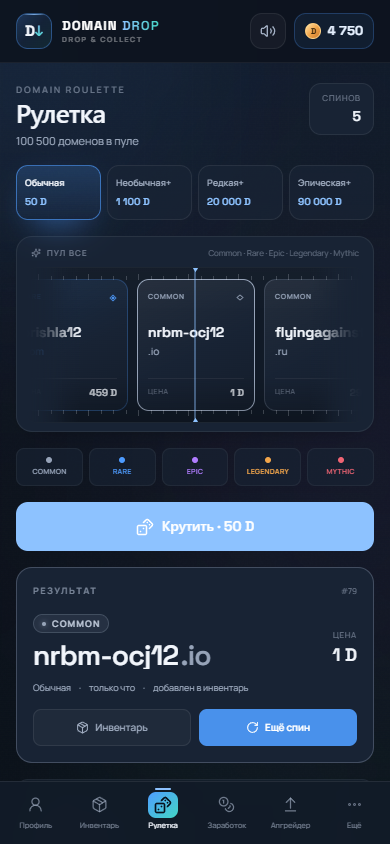
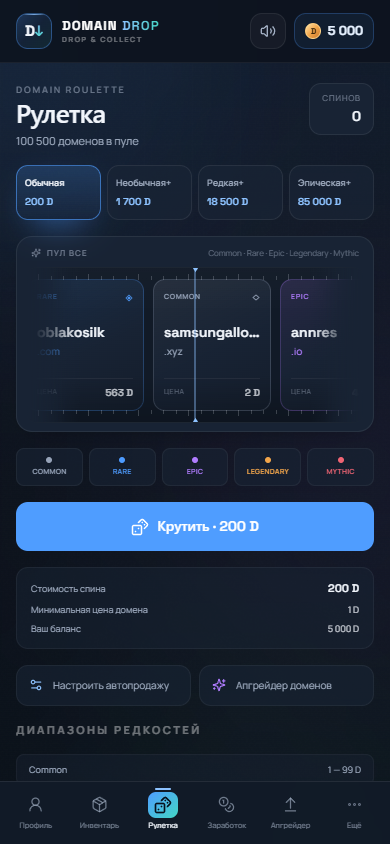
Raise rare drop rates and rebalance spin prices

diff --git a/backend/tests/test_api.py b/backend/tests/test_api.py
@@ -10,7 +10,7 @@ from sqlalchemy.ext.asyncio import AsyncSession, async_sessionmaker, create_asyn
 from sqlalchemy.pool import StaticPool
 
 from app.database import get_db
-from app.economy import weight_for_price
+from app.economy import weight_for
 from app.models import Base, Domain
 from app.routers import (
     auth,
@@ -30,7 +30,7 @@ TEST_DOMAINS = [
         zone=".com",
         price=1_100_000,
         rarity="mythic",
-        weight=weight_for_price(1_100_000),
+        weight=weight_for(1_100_000, "mythic"),
         is_available=True,
     ),
     Domain(
@@ -38,7 +38,7 @@ TEST_DOMAINS = [
         zone=".com",
         price=50_000,
         rarity="legendary",
-        weight=weight_for_price(50_000),
+        weight=weight_for(50_000, "legendary"),
         is_available=True,
     ),
     Domain(
@@ -46,7 +46,7 @@ TEST_DOMAINS = [
         zone=".ru",
         price=5_000,
         rarity="epic",
-        weight=weight_for_price(5_000),
+        weight=weight_for(5_000, "epic"),
         is_available=True,
     ),
     Domain(
@@ -54,7 +54,7 @@ TEST_DOMAINS = [
         zone=".io",
         price=200,
         rarity="rare",
-        weight=weight_for_price(200),
+        weight=weight_for(200, "rare"),
         is_available=True,
     ),
     Domain(
@@ -62,7 +62,7 @@ TEST_DOMAINS = [
         zone=".xyz",
         price=10,
         rarity="common",
-        weight=weight_for_price(10),
+        weight=weight_for(10, "common"),
         is_available=True,
     ),
 ]
@@ -154,7 +154,7 @@ async def test_full_game_flow(test_context, monkeypatch):
     assert meta.status_code == 200
     meta_data = meta.json()
     assert meta_data["total_domains"] == 5
-    assert [item["cost"] for item in meta_data["roll_types"]] == [50, 1_100, 20_000, 90_000]
+    assert [item["cost"] for item in meta_data["roll_types"]] == [200, 1_700, 18_500, 85_000]
     assert [item["key"] for item in meta_data["roll_types"]] == [
         "normal",
         "uncommon_plus",
@@ -174,7 +174,7 @@ async def test_full_game_flow(test_context, monkeypatch):
     first = await client.post("/api/spin", headers=headers, json={"roll_type": "normal"})
     assert first.status_code == 200, first.text
     first_data = first.json()
-    assert first_data["balance"] == 4950
+    assert first_data["balance"] == 4800
     assert first_data["auto_sold"] is False
     assert "server_seed" not in first_data
     limited = await client.post("/api/spin", headers=headers, json={"roll_type": "normal"})
@@ -200,7 +200,7 @@ async def test_full_game_flow(test_context, monkeypatch):
     auto_data = auto_spin.json()
     assert auto_data["auto_sold"] is True
     assert auto_data["auto_sold_price"] == auto_data["price"]
-    assert auto_data["balance"] == 4950 - 50 + auto_data["auto_sold_price"]
+    assert auto_data["balance"] == 4800 - 200 + auto_data["auto_sold_price"]
 
     # Turn autosell off and collect three domains.
     response = await client.put(

diff --git a/backend/app/economy.py b/backend/app/economy.py
@@ -68,38 +68,48 @@ SPIN_TYPES: dict[str, SpinType] = {
         "key": "normal",
         "title": "Обычная",
         "short_title": "Все",
-        "cost": 50,
+        "cost": 200,
         "rarities": RARITY_ORDER,
         "min_price": 1,
-        "description": "Все редкости · 50 монет",
+        "description": "Все редкости · 200 монет",
     },
     "uncommon_plus": {
         "key": "uncommon_plus",
         "title": "Необычная+",
         "short_title": "Rare+",
-        "cost": 1_100,
+        "cost": 1_700,
         "rarities": ("rare", "epic", "legendary", "mythic"),
         "min_price": 100,
-        "description": "Rare и выше · 1 100 монет",
+        "description": "Rare и выше · 1 700 монет",
     },
     "rare_plus": {
         "key": "rare_plus",
         "title": "Редкая+",
         "short_title": "Epic+",
-        "cost": 20_000,
+        "cost": 18_500,
         "rarities": ("epic", "legendary", "mythic"),
         "min_price": 1_000,
-        "description": "Epic и выше · 20 000 монет",
+        "description": "Epic и выше · 18 500 монет",
     },
     "epic_plus": {
         "key": "epic_plus",
         "title": "Эпическая+",
         "short_title": "Legendary+",
-        "cost": 90_000,
+        "cost": 85_000,
         "rarities": ("legendary", "mythic"),
         "min_price": 10_000,
-        "description": "Legendary и Mythic · 90 000 монет",
+        "description": "Legendary и Mythic · 85 000 монет",
     },
+}
+
+# Rarity luck multipliers are tuned to make Rare+ noticeably more common
+# while keeping the expected payout of every ticket below its price.
+RARITY_WEIGHT_LUCK: dict[Rarity, float] = {
+    "common": 1.0,
+    "rare": 3.2,
+    "epic": 7.0,
+    "legendary": 6.5,
+    "mythic": 5.5,
 }
 
 # Upgrade sectors: sector -> multiplier. The exact chance is generated
@@ -159,14 +169,15 @@ def calculate_price(name: str, zone: str, readability: str, jitter: float) -> in
     return max(1, int(round(raw)))
 
 
-def weight_for_price(price: int) -> float:
-    """Power curve: expensive names are dramatically rarer than cheap ones.
+def weight_for(price: int, rarity: Rarity) -> float:
+    """Price curve combined with a rarity luck multiplier.
 
-    The previous inverse-log weight made high-rarity domains far too common.
-    This curve keeps the full sale price while making every roulette's
-    expected payout lower than its cost.
+    Expensive names stay rare inside their rarity, while Rare and above get
+    a visible luck boost. The values are tuned together with spin costs so
+    that every ticket still has EV below its price.
     """
-    return 1.0 / math.pow(max(1, price), 0.6)
+    luck = RARITY_WEIGHT_LUCK[rarity]
+    return luck / math.pow(max(1, price), 0.6)
 
 
 def rarity_for_price(price: int) -> Rarity:

diff --git a/backend/tests/test_domains.py b/backend/tests/test_domains.py
@@ -14,7 +14,7 @@ from app.economy import (
     calculate_price,
     length_factor,
     rarity_for_price,
-    weight_for_price,
+    weight_for,
 )
 
 
@@ -47,10 +47,11 @@ def test_price_formula_and_rarity_thresholds():
     assert rarity_for_price(100000) == "mythic"
 
 
-def test_weight_is_power_curve():
-    assert weight_for_price(10) > weight_for_price(1_000_000)
-    assert weight_for_price(1_000_000) == pytest.approx(1 / (1_000_000**0.6), rel=1e-9)
-    assert weight_for_price(1) == 1.0
+def test_weight_applies_rarity_luck():
+    assert weight_for(10, "common") > weight_for(1_000_000, "mythic")
+    assert weight_for(1_000_000, "mythic") == pytest.approx(5.5 / (1_000_000**0.6), rel=1e-9)
+    assert weight_for(100, "rare") > weight_for(100, "common") * 3
+    assert weight_for(1, "common") == 1.0
 
 
 def test_upgrade_sectors_have_negative_ev():
@@ -59,7 +60,7 @@ def test_upgrade_sectors_have_negative_ev():
 
 
 def test_all_roulette_costs_and_rarity_pools():
-    assert [SPIN_TYPES[key]["cost"] for key in SPIN_TYPES] == [50, 1_100, 20_000, 90_000]
+    assert [SPIN_TYPES[key]["cost"] for key in SPIN_TYPES] == [200, 1_700, 18_500, 85_000]
     assert "mythic" not in SPIN_TYPES
     assert SPIN_TYPES["normal"]["rarities"] == RARITY_ORDER
     assert SPIN_TYPES["epic_plus"]["rarities"] == ("legendary", "mythic")

diff --git a/backend/app/routers/upgrades.py b/backend/app/routers/upgrades.py
@@ -10,7 +10,7 @@ from sqlalchemy import func, select
 from sqlalchemy.ext.asyncio import AsyncSession
 
 from app.database import get_db
-from app.economy import UPGRADE_SECTORS, rarity_for_price, weight_for_price
+from app.economy import UPGRADE_SECTORS, rarity_for_price, weight_for
 from app.models import Domain, Inventory, Upgrade, User
 from app.schemas import DomainOut, UpgradeIn, UpgradeOut
 from app.security import get_current_user
@@ -101,7 +101,7 @@ async def upgrade_domains(
                         zone=zone,
                         price=target_value,
                         rarity="mythic",
-                        weight=round(weight_for_price(target_value), 8),
+                        weight=round(weight_for(target_value, "mythic"), 8),
                         is_available=True,
                     )
                     db.add(won_domain)
@@ -127,7 +127,7 @@ async def upgrade_domains(
                     zone=zone,
                     price=target_value,
                     rarity="mythic",
-                    weight=round(weight_for_price(target_value), 8),
+                    weight=round(weight_for(target_value, "mythic"), 8),
                     is_available=True,
                 )
                 db.add(won_domain)

diff --git a/backend/app/migrations.py b/backend/app/migrations.py
@@ -26,8 +26,16 @@ POSTGRES_STATEMENTS = (
     "ALTER TABLE inventory ALTER COLUMN sold_price TYPE BIGINT",
     "CREATE INDEX IF NOT EXISTS ix_domains_available_rarity ON domains (is_available, rarity)",
     "CREATE INDEX IF NOT EXISTS ix_domains_price ON domains (price)",
-    # Rebalance existing volumes to the new power-curve rarity.
-    "UPDATE domains SET weight = 1.0 / POWER(GREATEST(price, 1), 0.6) WHERE is_available = TRUE",
+    # Rebalance existing volumes to the new rarity luck + price curve.
+    """UPDATE domains SET weight = (
+        CASE rarity
+            WHEN 'rare' THEN 3.2
+            WHEN 'epic' THEN 7.0
+            WHEN 'legendary' THEN 6.5
+            WHEN 'mythic' THEN 5.5
+            ELSE 1.0
+        END
+    ) / POWER(GREATEST(price, 1), 0.6) WHERE is_available = TRUE""",
 )
 
 

diff --git a/backend/app/domain_generator.py b/backend/app/domain_generator.py
@@ -19,7 +19,7 @@ from app.economy import (
     ZONES,
     calculate_price,
     rarity_for_price,
-    weight_for_price,
+    weight_for,
 )
 
 DATA_DIR = Path(__file__).resolve().parent / "data"
@@ -136,13 +136,14 @@ class DomainGenerator:
         else:
             price = explicit_price
         self.seen.add(key)
+        rarity = rarity_for_price(price)
         self.domains.append(
             GeneratedDomain(
                 name=name,
                 zone=zone,
                 price=price,
-                rarity=rarity_for_price(price),
-                weight=round(weight_for_price(price), 8),
+                rarity=rarity,
+                weight=round(weight_for(price, rarity), 8),
             )
         )
         return True

diff --git a/backend/app/bot.py b/backend/app/bot.py
@@ -55,7 +55,7 @@ async def run_bot() -> None:
             "Это <b>Domain Drop</b> — виртуальная рулетка доменов.\n"
             "Крути, собирай коллекцию и поднимайся в топ. "
             "Домены существуют только внутри приложения, реальных регистраций и денег нет.\n\n"
-            "Стартовый баланс — <b>5000 монет</b>. Один спин — <b>50</b>.",
+            "Стартовый баланс — <b>5000 монет</b>. Один обычный спин — <b>200</b>.",
             reply_markup=keyboard,
             parse_mode="HTML",
         )

diff --git a/README.md b/README.md
@@ -178,10 +178,30 @@ price = zone × length × readability × pattern × jitter
 ### Вес в рулетке
 
 ```text
-weight = 1 / price^0.6
+weight = luck(rarity) / price^0.6
 ```
 
-Степенная кривая сильно снижает шанс дорогих доменов. Это позволяет сохранить полную цену при продаже и одновременно удержать EV каждой рулетки ниже стоимости спина. Вес хранится в `domains.weight` и пересчитывается миграцией для существующих баз.
+| Редкость | `luck` |
+|---|---:|
+| Common | 1.0 |
+| Rare | 3.2 |
+| Epic | 7.0 |
+| Legendary | 6.5 |
+| Mythic | 5.5 |
+
+Множитель `luck` повышает шанс редких и выше доменов, а степенная кривая оставляет высокие цены редкими внутри своей редкости. Вес хранится в `domains.weight` и пересчитывается миграцией для существующих баз.
+
+Фактические шансы в **Обычной** рулетке после обновления:
+
+| Редкость | Шанс |
+|---|---:|
+| Common | 87.72% |
+| Rare | 11.32% |
+| Epic | 0.78% |
+| Legendary | 0.16% |
+| Mythic | 0.02% |
+
+Итого Rare+ — **12.28%** вместо прежних ~4%. Epic+ — **0.96%** вместо ~0.15%.
 
 Примерное распределение сгенерированного каталога:
 
@@ -199,10 +219,10 @@ weight = 1 / price^0.6
 
 | Тип | Пул | Стоимость |
 |---|---|---:|
-| Обычная | все редкости | 50 D |
-| Необычная+ | Rare, Epic, Legendary, Mythic | 1 100 D |
-| Редкая+ | Epic, Legendary, Mythic | 20 000 D |
-| Эпическая+ | Legendary, Mythic | 90 000 D |
+| Обычная | все редкости | 200 D |
+| Необычная+ | Rare, Epic, Legendary, Mythic | 1 700 D |
+| Редкая+ | Epic, Legendary, Mythic | 18 500 D |
+| Эпическая+ | Legendary, Mythic | 85 000 D |
 
 Сервер фильтрует пул и делает взвешенный выбор по `weight`.
 
@@ -220,8 +240,8 @@ weight = 1 / price^0.6
 
 Чтобы полные выплаты не ломали экономику, переработаны два параметра:
 
-1. **Вес доменов** — `1 / price^0.6`. Дорогие имена выпадают существенно реже.
-2. **Стоимости рулеток** — подняты так, чтобы EV каждой оставался ниже цены спина.
+1. **Вес доменов** — `luck / price^0.6` с бонусом для Rare+.
+2. **Стоимости рулеток** — пересчитаны после повышения шансов, чтобы EV каждой оставался ниже цены спина.
 
 ### EV рулеток
 
@@ -229,10 +249,10 @@ weight = 1 / price^0.6
 
 | Рулетка | Стоимость | EV | RTP | House edge |
 |---|---:|---:|---:|---:|
-| Обычная | 50 | **41.55** | 83.1% | 16.9% |
-| Необычная+ | 1 100 | **946.67** | 86.1% | 13.9% |
-| Редкая+ | 20 000 | **17 950.11** | 89.8% | 10.2% |
-| Эпическая+ | 90 000 | **79 123.05** | 87.9% | 12.1% |
+| Обычная | 200 | **182.91** | 91.5% | 8.5% |
+| Необычная+ | 1 700 | **1 463.85** | 86.1% | 13.9% |
+| Редкая+ | 18 500 | **15 505.98** | 83.8% | 16.2% |
+| Эпическая+ | 85 000 | **71 664.60** | 84.3% | 15.7% |
 
 Условие **EV < цены спина** выполнено для всех четырёх типов. Высокие рулетки — инструмент охоты за Legendary/Mythic-доменами, а не быстрый источник монет.
 
@@ -602,7 +622,7 @@ pytest -q
 - генерация 100 500 уникальных доменов;
 - все четыре зоны;
 - формула цены и границы редкостей;
-- вес `1 / price^0.6`;
+- вес `luck / price^0.6` и повышенный шанс Rare+;
 - точные референсные цены;
 - EV всех четырёх рулеток < стоимости;
 - удаление Mythic-рулетки из API;
